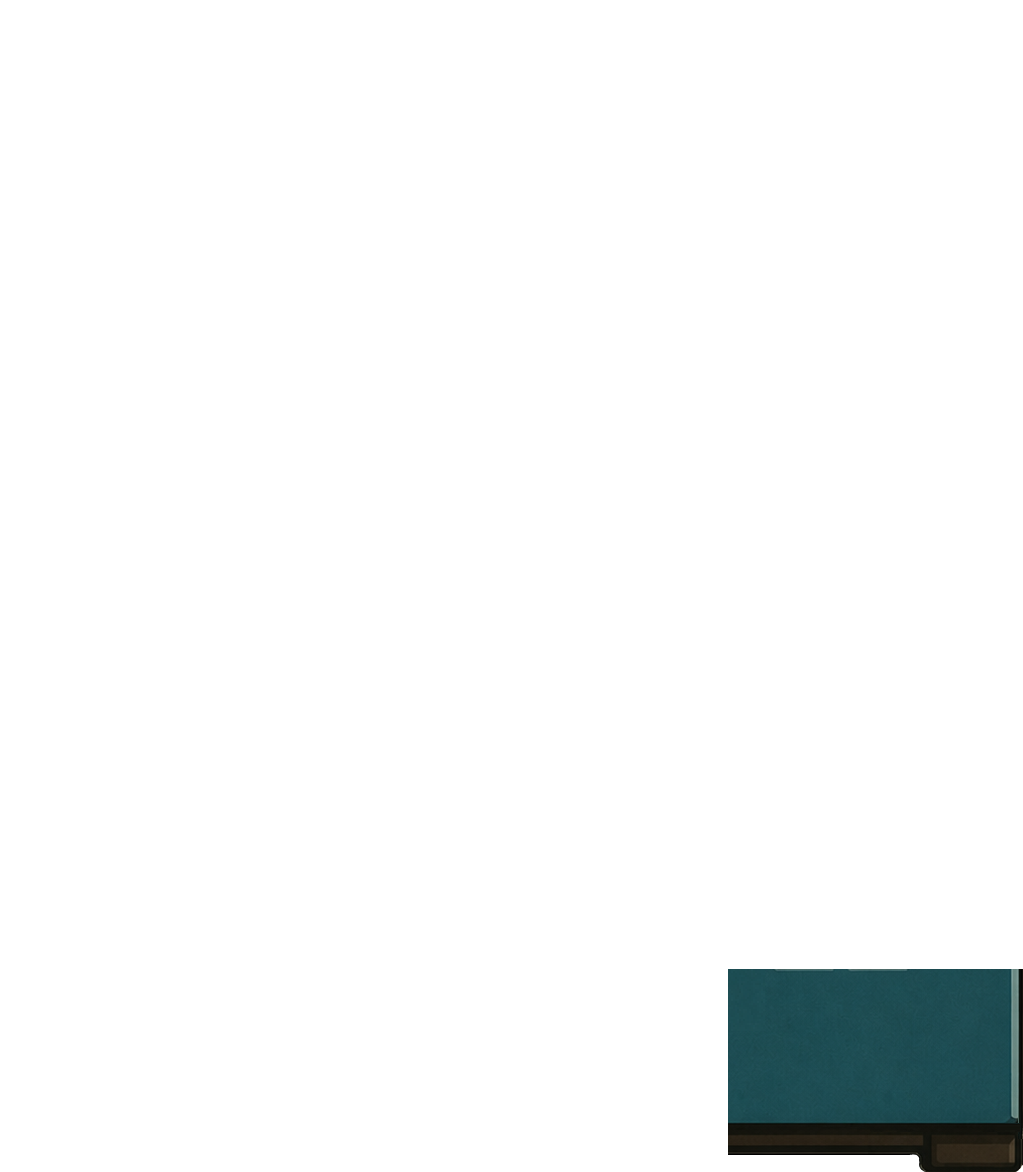
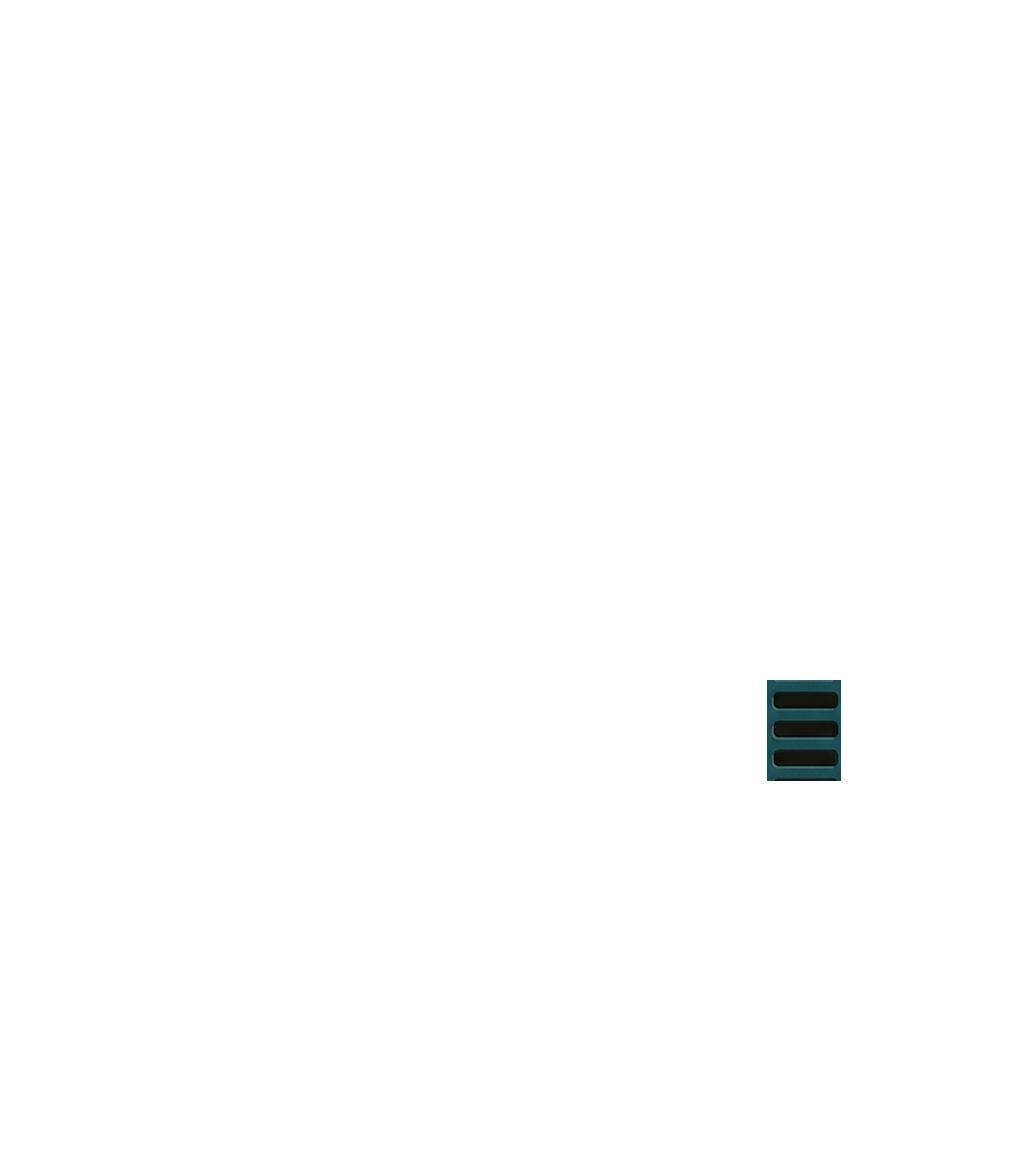
Visual changes

Changed region(s): [[0.697, 0.8294, 1.0, 1.0], [0.7273, 0.5529, 0.8485, 0.6758]]

diff --git a/src/components/BackSide.jsx b/src/components/BackSide.jsx
@@ -10,24 +10,104 @@ function BackSide() {
         className="mobile-machine-bg"
         />
 
-        <a
-                href="mailto:filipdantonijevic@gmail.com"
-                style={{
+            {/* Top-left large fan */}
+             <img
+              src="/images/rest/Vent.png"
+              alt=""
+              className="vent-spin"
+              style={{
                 position: 'absolute',
-                right: '38%',
-                top: '50%',
-                width: '22%',
-                zIndex: 20,
+                left: '12.5%',
+                top: '6.4%',
+                width: '35%',
+                height: 'auto',
                 display: 'block',
-                transform: 'rotate(-20deg)',
-                }}
-            >
-                <img
-                src="/images/rest/Mail.png"
-                alt=""
-                style={{ width: '100%', height: 'auto', display: 'block', pointerEvents: 'none' }}
-                />
-            </a>
+                pointerEvents: 'none',
+                userSelect: 'none',
+                animationDuration: '4s',
+              }}
+            />
+
+
+            <img
+              src="/images/rest/Vent_grill.png"
+              alt=""
+              style={{
+                position: 'absolute',
+                left: '13.5%',
+                top: '7.4%',
+                width: '33%',
+                height: 'auto',
+                display: 'block',
+                pointerEvents: 'none',
+                userSelect: 'none',
+              }}
+            />
+
+            {/* Top-right small fan */}
+            <img
+              src="/images/rest/Vent.png"
+              alt=""
+              className="vent-spin"
+              style={{
+                position: 'absolute',
+                left: '75.39%',
+                top: '33.14%',
+                width: '18%',
+                height: 'auto',
+                display: 'block',
+                pointerEvents: 'none',
+                userSelect: 'none',
+                animationDuration: '1s',
+              }}
+            />
+            <img
+              src="/images/rest/Vent_grill.png"
+              alt=""
+              style={{
+                position: 'absolute',
+                left: '75.5%',
+                top: '33.4%',
+                width: '17.5%',
+                height: 'auto',
+                display: 'block',
+                pointerEvents: 'none',
+                userSelect: 'none',
+              }}
+            />
+
+            {/* Bottom-right large fan */}
+            <img
+              src="/images/rest/Vent.png"
+              alt=""
+              className="vent-spin"
+              style={{
+                position: 'absolute',
+                left: '59%',
+                top: '67.1%',
+                width: '35%',
+                height: 'auto',
+                display: 'block',
+                pointerEvents: 'none',
+                userSelect: 'none',
+                animationDuration: '1.5s',
+              }}
+            />
+            <img
+              src="/images/rest/Vent_grill.png"
+              alt=""
+              style={{
+                position: 'absolute',
+                left: '60%',
+                top: '68%',
+                width: '33%',
+                height: 'auto',
+                display: 'block',
+                pointerEvents: 'none',
+                userSelect: 'none',
+              }}
+            />
+
     </div>
   );
 }

diff --git a/src/components/RightSide.jsx b/src/components/RightSide.jsx
@@ -73,6 +73,39 @@ function RightSide({ onSwipeToFront }) {
             userSelect: 'none',
             }}
         />
+          <a
+                href="mailto:filipdantonijevic@gmail.com"
+                style={{
+                position: 'absolute',
+                right: '11%',
+                top: '46.8%',
+                width: '17%',
+                zIndex: 20,
+                display: 'block',
+                transform: 'rotate(-24deg)',
+                }}
+            >
+                <img
+                src="/images/rest/Mail.png"
+                alt=""
+                style={{ width: '100%', height: 'auto', display: 'block', pointerEvents: 'none' }}
+                />
+            </a>
+
+
+            <img
+            src="/images/rest/Vending_machine_right_bottom.png"
+            alt=""
+            style={{
+            position: 'absolute',
+            width: '100%',
+            height: '100%',
+            zIndex: 200000,
+            pointerEvents: 'none',
+            userSelect: 'none',
+            }}
+        />
+
         </div>
       </div>
     </>

diff --git a/src/styles.css b/src/styles.css
@@ -719,6 +719,14 @@ img {
     }
   }
 
+  @keyframes ventSpin {
+    from { transform: rotate(0deg); }
+    to   { transform: rotate(360deg); }
+  }
+  .vent-spin {
+    animation: ventSpin 8s linear infinite;
+  }
+
   /* ===================================
     Accessibility
     =================================== */
